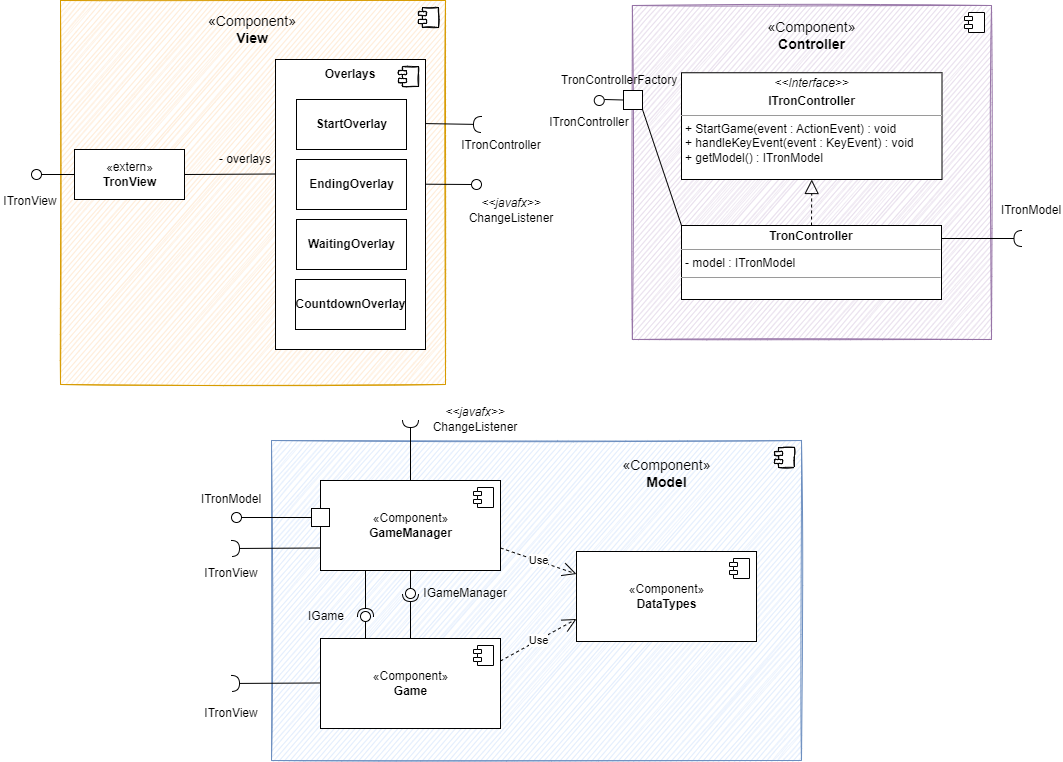
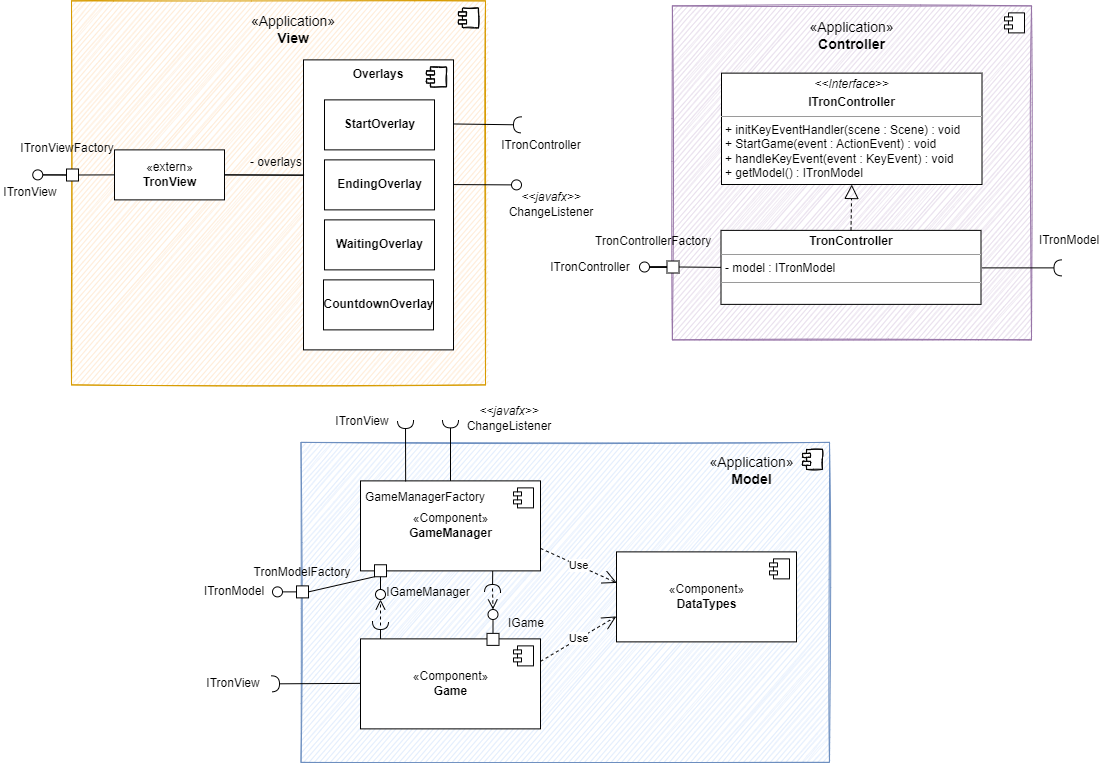
applicationStub baustein

diff --git a/Dokumentation/App/TronGame_Documentation.md b/Dokumentation/App/TronGame_Documentation.md
@@ -2,7 +2,7 @@
 
 # 1. Einführung und Ziele
 
-Dieses Projekt entsteht im Rahmen des Moduls “Verteilte Systeme” und hat zum Ziel, das Multiplayer-Spiel “Tron” zu entwickeln. 
+Dieses Projekt entsteht im Rahmen des Moduls “Verteilte Systeme” und hat zum Ziel, das Multiplayer-Spiel “Tron” zu entwickeln.
 Das Spiel soll lokal an einem Computer oder verteilt auf mehrere Computer gespielt werden können.
 
 ## 1.1 Aufgabenstellung
@@ -19,7 +19,7 @@ Allgemeine Spielprinzipien:
 
 Weitere Anforderungen:
 - Das Spiel soll über eine Konfigurationsdatei konfiguriert werden können.
-- Das Spiel kann entweder lokal (LOCAL) oder im Netzwerk (NETWORK) gespielt werden. Dies soll ebenfalls über die Konfigurationsdatei einstellbar sein. 
+- Das Spiel kann entweder lokal (LOCAL) oder im Netzwerk (NETWORK) gespielt werden. Dies soll ebenfalls über die Konfigurationsdatei einstellbar sein.
 
 Details siehe [Anforderungsdetails](#anforderungsdetails).
 
@@ -99,7 +99,7 @@ Details siehe [Use Cases](#use-cases).
 | UC-3 | `isGameOver() : boolean`                                                           | Game | Das Game wurde gestartet. | Ergebnis ist wahr oder falsch | Wenn der Counter der aktiven Player < 2 dann gibt die Methode den Wert 'true' zurück andernfalls 'false' | - |
 | UC-3.1 | `handleSteer(steer : Steer ) : void`                                              | IGame | Player muss noch am Leben sein. | Der Player hat eine neue Direction.| Anhand der ausgelesenen Player-ID und Direction eines Steer-Objekts, wird die Fahrtrichtung des Players angepasst. | - |
 | UC-3 | `draw() : void `                                                                    | Game | - | - | Die Positionen der Spieler werden auf den Screen gezeichnet. | - |
-| UC-2,3,4 | `handleGameState(gameState : GameState) : void`                                    | IGameManager | Der GameManager wurde über handleGameState(gameState:GameState) über eine Veränderung informiert. | Der ModelState des GameManagers hat sich gemäß des GameStates verändert. | Das Model wechselt vom aktuellen ModelState in den nächsten ModelState abhängig von der Nachricht. | Ist eine Nachricht nicht gültig im aktuellen ModelState, wird sie ignoriert. | 
+| UC-2,3,4 | `handleGameState(gameState : GameState) : void`                                    | IGameManager | Der GameManager wurde über handleGameState(gameState:GameState) über eine Veränderung informiert. | Der ModelState des GameManagers hat sich gemäß des GameStates verändert. | Das Model wechselt vom aktuellen ModelState in den nächsten ModelState abhängig von der Nachricht. | Ist eine Nachricht nicht gültig im aktuellen ModelState, wird sie ignoriert. |
 | UC-2,3,4 | `executeState() : void`                                                            | GameManager | Es gab einen Zustandsübergang. | Die 'do's des States wurden durchgeführt. | In Abhängigkeit vom ModelState zeigt der GameManager Overlays an, initialisiert ein Game etc. (Verweis auf das State-Diagramm) | - |
 | UC-4 | `setWinnerColor(winnerColor : String) : void`                                     | IGameManager | Es gibt einen Gewinner oder es ist unentschieden| Farbe wurde geändert. | Nachdem der Gewinner identifiziert wurde, wir die Spielfarbe des Gewinners gesetzt. Und wenn es kein Gewinner gibt, wird eine default-Farbe gesetzt.| - |
 | UC-4 | `setGameResult(result : String) : void`                                            | IGameManager | Es gibt einen Gewinner oder es ist unentschieden | Das Spielergebnis wurde mit "Der Gewinner ist ..." oder "Unentschieden" gesetzt. | Setzt das Spielergebnis im Game Manager fest, sodass es dem Spieler angezeigt werden kann. | - |
@@ -108,16 +108,16 @@ Details siehe [Use Cases](#use-cases).
 | UC-3 | detectWallCollision(coordinate : Coordinate) : boolean                           | IArena | Die Coordinate muss innerhalb des Arena-Arrays sein. Coordinate darf nicht null sein. | Variable ist wahr wenn der Spieler zusammengestoßen ist und falsch wenn keine Kollision entdeckt wurde. | Bei jeden Zug wird überprüft ob der Spieler in den Schatten eines weiteren Spieler, die Arenawand oder in seinen eigenen Schatten gefahren ist. | - |
 | UC-3 | `detectHeadColision(players: List<Player>) : boolean`                       | CollisionDetector | Anzahl aktiver Spieler > 1 | - | Es wird überprüft ob ein Player mit dem head eines anderen Players kolidiert. | - |
 | UC-3 | `detectColision(players: List<Player>, arena : Arena) : void`                       | ICollisionDetector | Anzahl aktiver Spieler > 1 | - | Es wird überprüft ob ein Player mit dem head eines anderen Players kolidiert. | - |
-| UC-3 | `getHeadPosition() : Coordinate`                                                   | IPlayer | Die Liste der Koordinaten eines Spielers darf nicht leer sein. | die Head-Position wird zurückgeben. | Die letzte Position in der Liste ist immer die headPosition, welche durch die Methode getHeadPosition abgefragt wird. | - | 
-| UC-3 | `addCoordinate(coordinate : Coordinate) : void `                                 | IPlayer | Die Coordinate ist nicht NULL | Die Koordinatenliste ist um +1 gestiegen. | Dem Spieler wird eine neue Koordinate in seine List<Coordinate> hinzugefügt. | - | 
-| UC-3 | `isAlive() : boolean`                                                              | IPlayer | - | - | Der Spieler kann entweder noch aktiv am Spiel beteiligt sein oder nicht. Dies wird mit der Funktion abgefragt. Ein wechsel dieses Status erfolgt durch eine Kollision mit Playern (inkl. sich selbst) oder der Arena-Wand.| | 
-| UC-3 | `crash() : void`                                                                   | IPlayer | Der Spieler ist am Leben und in der aktuellen Spielrunde gecrashed | Der Spieler kann nicht mehr mitspielen | Setzt den alive-Status eines Spielers auf "false" nach einem Crash. | - | 
-| UC-3.1 | `handleActionChange(directionChange : DirectionChange) : void`                                                                   | IPlayer | Ein Spieler hat per Tastenanschlag gelenkt | Der Player merkt hat sich seine nächste Action gemerkt. | Wenn der Spieler eine Taste drückt, erhält das Player Objekt eine neue Action, die im nächsten Takt ausgeführt werden kann. Tritt ein ActionChange im selben Takt erneut auf, wird die alte Action überschrieben. | - | 
-| UC-2,3 | `handleDirectionChange() : Direction`                                     | IPlayer | Neuer Takt hat begonnen. | Die Direction des Players wurde der Action entsprechend verändert. | Pro Takt wird die Richtung jedes Spielers entsprechend seiner Action verändert. Die Action wird danach auf NONE gesetzt. | - | 
+| UC-3 | `getHeadPosition() : Coordinate`                                                   | IPlayer | Die Liste der Koordinaten eines Spielers darf nicht leer sein. | die Head-Position wird zurückgeben. | Die letzte Position in der Liste ist immer die headPosition, welche durch die Methode getHeadPosition abgefragt wird. | - |
+| UC-3 | `addCoordinate(coordinate : Coordinate) : void `                                 | IPlayer | Die Coordinate ist nicht NULL | Die Koordinatenliste ist um +1 gestiegen. | Dem Spieler wird eine neue Koordinate in seine List<Coordinate> hinzugefügt. | - |
+| UC-3 | `isAlive() : boolean`                                                              | IPlayer | - | - | Der Spieler kann entweder noch aktiv am Spiel beteiligt sein oder nicht. Dies wird mit der Funktion abgefragt. Ein wechsel dieses Status erfolgt durch eine Kollision mit Playern (inkl. sich selbst) oder der Arena-Wand.| |
+| UC-3 | `crash() : void`                                                                   | IPlayer | Der Spieler ist am Leben und in der aktuellen Spielrunde gecrashed | Der Spieler kann nicht mehr mitspielen | Setzt den alive-Status eines Spielers auf "false" nach einem Crash. | - |
+| UC-3.1 | `handleActionChange(directionChange : DirectionChange) : void`                                                                   | IPlayer | Ein Spieler hat per Tastenanschlag gelenkt | Der Player merkt hat sich seine nächste Action gemerkt. | Wenn der Spieler eine Taste drückt, erhält das Player Objekt eine neue Action, die im nächsten Takt ausgeführt werden kann. Tritt ein ActionChange im selben Takt erneut auf, wird die alte Action überschrieben. | - |
+| UC-2,3 | `handleDirectionChange() : Direction`                                     | IPlayer | Neuer Takt hat begonnen. | Die Direction des Players wurde der Action entsprechend verändert. | Pro Takt wird die Richtung jedes Spielers entsprechend seiner Action verändert. Die Action wird danach auf NONE gesetzt. | - |
 | UC-4 | `getWinnerObservable() : StringProperty`                                           | ITronModel | Der GameManager wurde initialisiert. | Ein Observable StringProperty wurde zurückgegeben. | Andere Komponenten(View) erhalten eine Referenz auf das Observable-Winner-Objekt. | - |
 | UC-3.1 | `handleSteerEvent( key : KeyCode ) : void`                                         | ITronModel | Der GameManager wurde initialisiert. | Das Model hat auf das Event reagiert. | Ein Tastenanschlag wird an das Model weitergegeben. |  |
 | UC-4 | `getGameResultObservable() : StringProperty`                                       | ITronModel | Der GameManager wurde initialisiert. | Ein Observable StringProperty wurde zurückgegeben.  | Andere Komponenten(View) erhalten eine Referenz auf das Observable-GameResult-Objekt. | |
-| UC-3 | `getCounterObservable() : IntegerProperty`                                         | ITronModel | Der GameManager wurde initialisiert.  | Ein Observable IntegerProperty wurde zurückgegeben. | Andere Komponenten(View) erhalten eine Referenz auf das Observable-Counter-Objekt.| | 
+| UC-3 | `getCounterObservable() : IntegerProperty`                                         | ITronModel | Der GameManager wurde initialisiert.  | Ein Observable IntegerProperty wurde zurückgegeben. | Andere Komponenten(View) erhalten eine Referenz auf das Observable-Counter-Objekt.| |
 | UC-2 | `getPlayerCountObservable(): IntegerProperty`                                      | ITronModel | Der GameManager wurde initialisiert. | Ein Observable IntegerProperty wurde zurückgegeben. | Andere Komponenten(View) erhalten eine Referenz auf das Observable-Counter-Objekt. | |
 | UC-2 | `initializeGame(playerNumber : int) : void`                                        | ITronModel | Der GameManager wurde initialisiert. | Der GameManager befindet sich im State "WAITING" | Im Model wird ein Game vorbereitet, in dem dann auch die Arena und die Spieler initialisiert werden. | - |
 
@@ -126,15 +126,19 @@ Details siehe [Use Cases](#use-cases).
 | ---- | ----------- | ----------- |----------- |----------- |----------- |----------- |
 | UC-2 | `btnStartGame(event : ActionEvent) : void` | ITronController | Click-Event in View ausgelöst | Es wird im Model ein Game gestartet. | Bei Klick auf den "Spiel starten" Button erhält der Controller ein Event, woraufhin er der Model-Komponente Bescheid sagt, ein Game zu starten. | |
 | UC-3 | `initKeyEventHandler(scene : Scene) : void` | ITronController | Scene nicht null, TronController wurde erstellt | Der Controller handelt die KeyEvents auf der übergebenen Scene. | Bei Start der Applikation wird der Controller als EventHandler für die Scene der View initialisiert, damit er KeyEvents des Users erhält und verarbeitet. | - |
-| UC-3.1 | `handleKeyEvent(event : KeyEvent) : void` | ITronController | KeyEvent in View ausgelöst | Das Model wurde über einen Tastenanschlag informiert | Tastenanschläge werden von der View an den Controller geleitet, der das Model darüber informiert. 
+| UC-3.1 | `handleKeyEvent(event : KeyEvent) : void` | ITronController | KeyEvent in View ausgelöst | Das Model wurde über einen Tastenanschlag informiert | Tastenanschläge werden von der View an den Controller geleitet, der das Model darüber informiert.
 
 
 # 5. Bausteinsicht
 ## 5.1 Ebene 1
 ![image info](./diagrams/bs_layer1.png)
-## 5.2 Ebene 2
+## 5.2 Ebene 2 : Application
 ![image info](./diagrams/bs_layer2_view_controller.png)
-## 5.3 Ebene 3
+## 5.2 Ebene 2 : ApplicationStub
+![image info](./diagrams/bs_layer3_stub_model_interfaces.png)
+![image info](./diagrams/bs_layer3_stub_model.png)
+## 5.3 Ebene 3 : Application
+![image info](./diagrams/bs_layer3_model_interfaces.png)
 ![image info](./diagrams/bs_layer3_model.png)
 
 # 6. Laufzeitsicht
@@ -342,7 +346,7 @@ Erweiterungsfälle:
     4.a UC-3.1: Steer Bike: Der Spieler steuert sein Bike durch Tasteneingaben
         4.a.1 Das System verarbeitet die Tasteneingabe abhängig von der Konfiguration des Spielers.
         4.a.2 Das System ändert die Richtung des Bikes des Spielers abhängig von der Taste.
-    
+
 <br>
 
 **UC-4: See Results**
@@ -357,4 +361,3 @@ Standardfall:
     1. Das System startet den Ending-Timer.
     2. Das System zeigt den Ending-Screen an, in dem das Ergebnis des Spiels ("Gewinner ist ..." oder "Unentschieden!") und die Farbe des Gewinners, falls es einen gibt.
     3. Das System wechselt zurück zum Starting Screen, wenn der konfigurierte End-Timer angelaufen ist.
-
